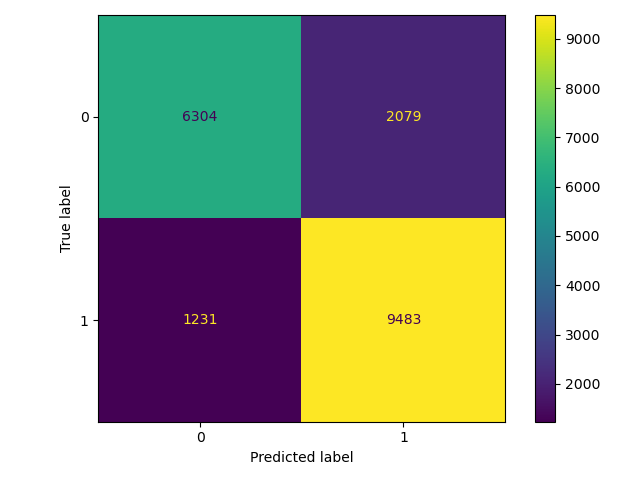
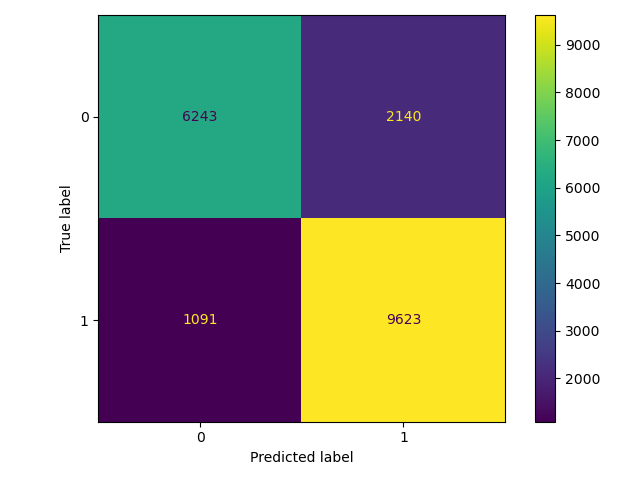
params updated and plots

diff --git a/dvc_plots/index.html b/dvc_plots/index.html
@@ -26,6 +26,15 @@
                     <img src="static/workspace_src_evaluation_artefacts_conf.png">
                 </div>
                 
+
+                <div
+                    style="border:1px dotted black;margin:2px;display:
+                    inline-block;
+                    overflow:hidden;margin-left:8px;">
+                    <p>HEAD</p>
+                    <img src="static/HEAD_src_evaluation_artefacts_conf.png">
+                </div>
+                
         </div>
 </body>
 </html>
